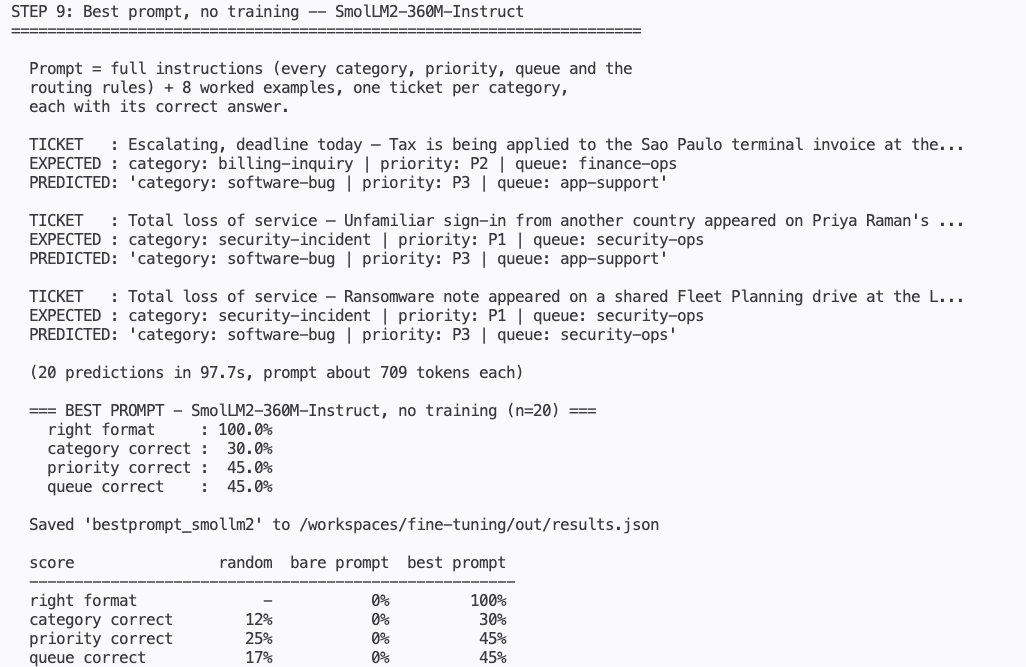
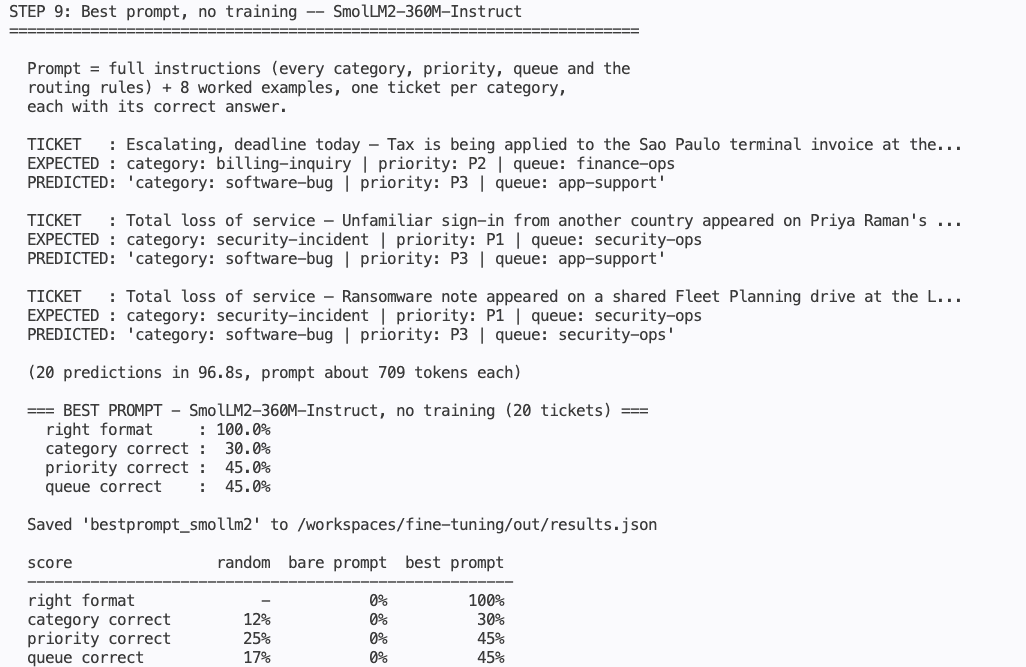
updates for latest QA

diff --git a/scripts/check_groq.py b/scripts/check_groq.py
@@ -1,4 +1,4 @@
-"""Check the OPTIONAL Groq setup used by Lab 5 Step 6.
+"""Check the OPTIONAL Groq setup used by Lab 5's STEP 6.
 
     python scripts/check_groq.py
 
@@ -31,7 +31,7 @@ def main():
         print("  Codespace / Mac / Linux / Git Bash :  source scripts/setup-key.sh")
         print("  Windows PowerShell                 :  .\\scripts\\setup-key.ps1")
         print()
-        print("Remember: this key is OPTIONAL. Every lab except Lab 5 Step 6 runs without it.")
+        print("Remember: this key is OPTIONAL. Every lab except Lab 5's STEP 6 runs without it.")
         return 1
     print(f"GROQ_API_KEY   = set ({len(key)} characters)")
 
@@ -92,7 +92,7 @@ def main():
         print(f"FAIL  {model} did not answer: {type(e).__name__}: {e}")
         return 1
 
-    print(f"OK    {model} responds. Lab 5 Step 6 is ready to run.")
+    print(f"OK    {model} responds. Lab 5's STEP 6 is ready to run.")
     return 0
 
 

diff --git a/scripts/verify_setup.py b/scripts/verify_setup.py
@@ -164,13 +164,13 @@ else:
            "tool - see your Local_Setup guide, section 'Merging the lab code'")
 
 # ---------------------------------------------------------------------------
-header("5. Optional: Groq key for Lab 5 Step 6")
+header("5. Optional: Groq key for Lab 5's STEP 6")
 
 if os.environ.get("GROQ_API_KEY", "").strip():
     report(PASS, "GROQ_API_KEY", "set - run  python scripts/check_groq.py  to test it")
 else:
     report(WARN, "GROQ_API_KEY not set",
-           "fine - only the optional Lab 5 Step 6 needs it (see README.md)")
+           "fine - only Lab 5's optional STEP 6 needs it (see README.md)")
 
 # ---------------------------------------------------------------------------
 print()

diff --git a/finetune/lab4_qlora.py b/finetune/lab4_qlora.py
@@ -275,9 +275,9 @@ base = AutoModelForCausalLM.from_pretrained(BASE_MODEL, dtype=torch.bfloat16)
 #         so it becomes one ordinary model again.
 merged = base
 
-print(f"  adapter wrapper still on    : {'yes' if type(merged).__name__.startswith('Peft') else 'no'}")
+print(f"  still needs the adapter library : {'yes' if type(merged).__name__.startswith('Peft') else 'no'}")
 lora_left = [n for n, _ in merged.named_modules() if "lora" in n.lower()]
-print(f"  separate adapter pieces left: {len(lora_left)}")
+print(f"  separate adapter pieces left    : {len(lora_left)}")
 
 merged.save_pretrained(MERGED_DIR)
 tokenizer.save_pretrained(MERGED_DIR)

diff --git a/finetune/lab3_lora.py b/finetune/lab3_lora.py
@@ -175,7 +175,8 @@ args = TrainingArguments(
 collator = DataCollatorForSeq2Seq(tokenizer, padding=True, label_pad_token_id=-100)
 
 # TODO 4: build the Trainer from the model with adapters, the training data,
-#         and the padding helper (collator) above.
+#         the padding helper (collator) above, and the tokenizer (passed as
+#         processing_class=).
 trainer = Trainer(
     model=peft_model,
     args=args,

diff --git a/finetune/lab5_eval.py b/finetune/lab5_eval.py
@@ -107,8 +107,8 @@ if not os.path.isdir(LORA_DIR):
     print(f"""
   No adapter found at {LORA_DIR}.
 
-  Steps 2-4 need the adapter Lab 3 saves. Go back and run Lab 3, then rerun
-  this script. Steps 1, 5 and 6 do not need it.
+  STEPS 2-4 need the adapter Lab 3 saves. Go back and run Lab 3, then rerun
+  this script. STEPS 1, 5 and 6 do not need it.
 """)
     raise SystemExit(0)
 

diff --git a/common/triage.py b/common/triage.py
@@ -313,7 +313,7 @@ def score(preds, rows):
 
 
 def print_scores(name, s):
-    print(f"\n  === {name} (n={s['n']}) ===")
+    print(f"\n  === {name} ({s['n']} tickets) ===")
     print(f"    right format     : {s['schema_valid']:6.1%}")
     print(f"    category correct : {s['category_acc']:6.1%}")
     print(f"    priority correct : {s['priority_acc']:6.1%}")

diff --git a/scripts/prefetch_models.py b/scripts/prefetch_models.py
@@ -21,7 +21,7 @@ import sys
 MODELS = [
     ("distilgpt2", "Labs 1-2, ~350 MB"),
     ("HuggingFaceTB/SmolLM2-360M-Instruct", "Labs 1, 3, 4, 5, ~1.4 GB"),
-    ("TinyLlama/TinyLlama-1.1B-Chat-v1.0", "Lab 4 Step 8, ~2.2 GB"),
+    ("TinyLlama/TinyLlama-1.1B-Chat-v1.0", "Lab 4's STEP 8, ~2.2 GB"),
 ]
 
 DATASETS = [

diff --git a/README.md b/README.md
@@ -34,7 +34,7 @@ support tickets into one strict line in a made-up company's own format.
 | Account | Needed? | Why |
 |---|---|---|
 | **GitHub** (free) | **Yes** | To run the workshop's Codespace. Sign up at <https://github.com/signup> if you do not have one. |
-| **Groq** (free, no credit card) | Optional | Only for Lab 5's optional Step 6. See [below](#optional-a-free-groq-api-key-for-lab-5-step-6). |
+| **Groq** (free, no credit card) | Optional | Only for Lab 5's optional STEP 6. See [below](#optional-a-free-groq-api-key-for-lab-5s-step-6). |
 
 
 <br>
@@ -118,7 +118,7 @@ More detail and fixes for common problems: [README-Codespace.md](README-Codespac
 
 ---
 
-## Optional: a free Groq API key for Lab 5 Step 6
+## Optional: a free Groq API key for Lab 5's STEP 6
 
 Lab 5 ends with an **optional** step that compares your fine-tuned model against a
 very large model hosted by Groq. It needs a free Groq API key. **Every other lab
@@ -268,8 +268,8 @@ double every training time in `labs.md`.
 
 **`Killed` during Lab 4.**
 Out of memory. Close other running processes and re-run; Lab 4 briefly holds
-two models (Step 6 reloads the 16-bit base to fold the adapter into, and Step 8 loads
-TinyLlama). If it persists, drop `QLORA_BATCH` from 2 to 1 and skip Step 8.
+two models (STEP 6 reloads the 16-bit base to fold the adapter into, and STEP 8 loads
+TinyLlama). If it persists, drop `QLORA_BATCH` from 2 to 1 and skip STEP 8.
 
 **Lab 4 fails to load the model in 4-bit.**
 Run `python scripts/verify_setup.py` — its 4-bit check tells you whether this

diff --git a/labs.md b/labs.md
@@ -326,6 +326,8 @@ copies.
 trained 82M model wins on category and queue — **a small trained model beats a
 bigger prompted one.** Priority doesn't move.
 
+![Lab 2 scores](./images/ft-lab2-scores.png?raw=true "Lab 2 scores after full fine-tuning")
+
 <br><br>
 
 10. **Discussion — when would you retrain everything?** When you have a very
@@ -439,6 +441,8 @@ plus one small adapter file per task or customer.
 9. Look at **STEP 8** and compare the scores with Lab 2's — category accuracy
 should be clearly better. (The model changed too, so this shows the workshop's
 progress, not how much LoRA alone helped.)
+
+![Lab 3 scores](./images/ft-lab3-scores.png?raw=true "Lab 3 scores after LoRA training")
 
 <br><br>
 
@@ -706,6 +710,8 @@ training does — not what 4-bit costs in quality.
 common mix-ups (true category → predicted category). An overall score tells you
 *whether* there is a problem; this tells you *where*. When one category drags the
 average down, the usual fix is more training examples for that category.
+
+![Lab 5 scores by category](./images/ft-lab5-categories.png?raw=true "Scores for each category, and the most common mix-ups")
 
 <br><br>
 

diff --git a/README-Codespace.md b/README-Codespace.md
@@ -49,11 +49,11 @@ It checks the installed libraries, that all three models are downloaded, that
 4-bit training (Lab 4) works, and whether the optional Groq key is set. The last
 line should be `RESULT: ready for the workshop.`
 
-## Optional: Groq key for Lab 5 Step 6
+## Optional: Groq key for Lab 5's STEP 6
 
 No step in this workshop *requires* a key. The one optional step that uses Groq
 is set up by a script — **you do not need to create any GitHub or Codespaces
-secrets.** Follow [README.md, "Optional: a free Groq API key"](README.md#optional-a-free-groq-api-key-for-lab-5-step-6),
+secrets.** Follow [README.md, "Optional: a free Groq API key"](README.md#optional-a-free-groq-api-key-for-lab-5s-step-6),
 which comes down to:
 
 ```

diff --git a/Local_Setup_Mac.md b/Local_Setup_Mac.md
@@ -190,13 +190,13 @@ Any `FAIL` line tells you what to fix. `WARN` lines are optional.
 
 <br>
 
-## 9. (Optional) Set up a Groq key for Lab 5 Step 6
+## 9. (Optional) Set up a Groq key for Lab 5's STEP 6
 
 Lab 5 has one **optional** step that compares your model against a large hosted
 model on Groq. It needs a free Groq API key. Every other lab runs without one.
 
 To get a key, follow the screenshots in **[README.md, "Optional: a free Groq API
-key"](README.md#optional-a-free-groq-api-key-for-lab-5-step-6)**. Then, in your
+key"](README.md#optional-a-free-groq-api-key-for-lab-5s-step-6)**. Then, in your
 Terminal (with `(.venv)` active):
 
 ```

diff --git a/Local_Setup_Windows.md b/Local_Setup_Windows.md
@@ -213,13 +213,13 @@ Any `FAIL` line tells you what to fix. `WARN` lines are optional.
 
 <br>
 
-## 10. (Optional) Set up a Groq key for Lab 5 Step 6
+## 10. (Optional) Set up a Groq key for Lab 5's STEP 6
 
 Lab 5 has one **optional** step that compares your model against a large hosted
 model on Groq. It needs a free Groq API key. Every other lab runs without one.
 
 To get a key, follow the screenshots in **[README.md, "Optional: a free Groq API
-key"](README.md#optional-a-free-groq-api-key-for-lab-5-step-6)**. Then, in
+key"](README.md#optional-a-free-groq-api-key-for-lab-5s-step-6)**. Then, in
 PowerShell (with `(.venv)` active):
 
 ```
